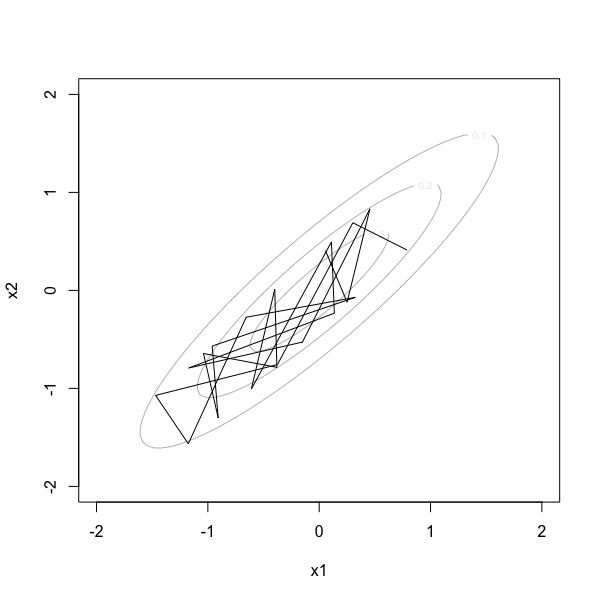
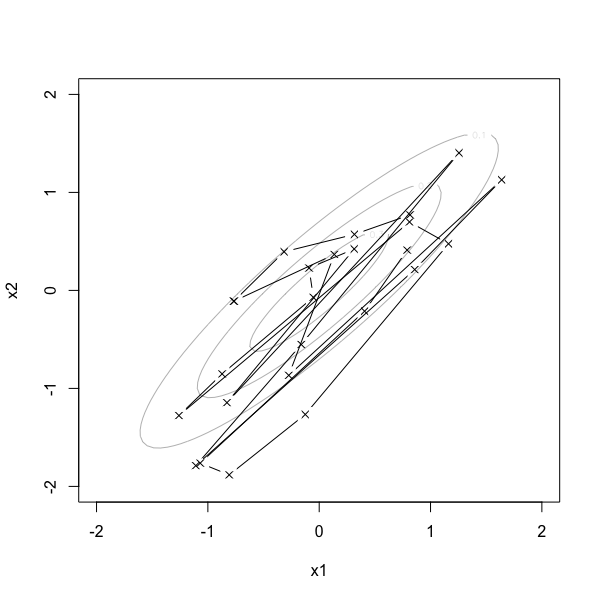
correct optimally tuned chain

diff --git a/bvg/hmc_bvg.cpp b/bvg/hmc_bvg.cpp
@@ -1,9 +1,8 @@
-/* HMC sampling from a Multivariate Gaussian distribution.
+/* HMC sampling from a Bivariate Gaussian distribution.
  *
  * Covariance matrix:
- *      1.2, 0.4
- *      0.4, 0.8
- * Prints samples to file "bvg_hmc_samples.txt".
+ *      1.0, 0.9
+ *      0.9, 1.0
  */
 #include "log_post.h"
 #include "hmc.h"
@@ -77,7 +76,7 @@ int main()
     // Generate optimally tuned chain
     L = 7;
     n_samples = 100000;
-    HMC mc(mvg, init, burn, thin, n_samples);
+    HMC mc(mvg, init, burn, thin, n_samples, epsilon, L);
     mc.hmc();
     
     file.open("hmc_bvg_samples.txt");

diff --git a/bvg/README.md b/bvg/README.md
@@ -1,6 +1,8 @@
 # Hamiltonian Monte Carlo
 
-## Sampling of a Bivariate Gaussian Distribution
+Class `HMC` found in `include/hmc.h` is an implementation of Hamiltonian Monte Carlo. Construct an `HMC` object using `HMC mc(log_post, initial_state, burn, thin, n_samples, epsilon, L)`. Here, `log_post` is an object of class `LogPost`, which represents the log posterior distribution that is the target distribution of the Markov Chain. This object contains information of the dimension of the target, data used in defining it, a function to evaluate the log-density and a function to evaluate the gradient of the log-density. `initial_state` is the initial state of the Markov chain, represented as an `arma::vec`. `burn` is the length of the burn-in period. `thin` is the thinning used for the Markov chain. `n_samples` is the number of thinned samples to generated. `epsilon` is the leapfrog step-size and `L` is the number of leapfrog steps.
+
+## Example: Sampling a Bivariate Gaussian Distribution
 
 Hamiltonian Monte Carlo is notoriously difficult to tune. One must first choose the leapfrog step-size epsilon. This can be done empirically by choosing a value of epsilon so that the acceptance rate of proposed points remains high. There tends to be a sharp stability limit after which the acceptance rate falls drastically. 
 
